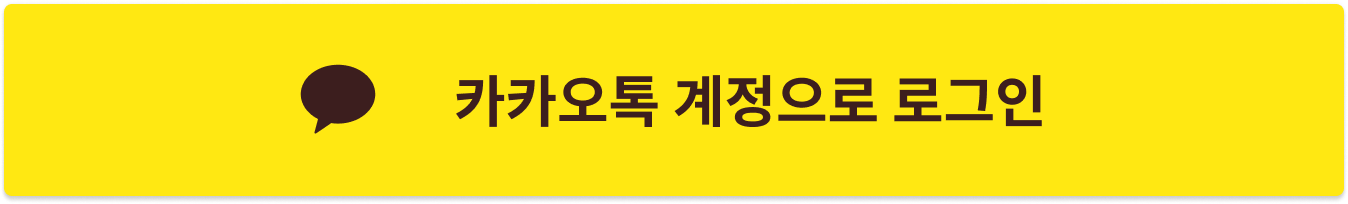
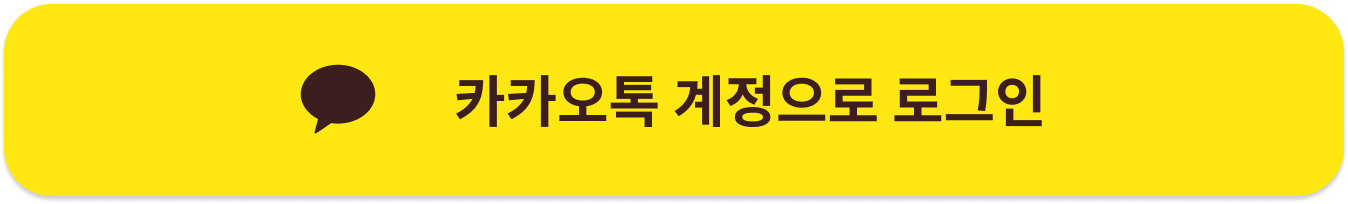
publish: 로그인 화면 디자인 변경

diff --git a/src/screens/SignIn/SignIn.tsx b/src/screens/SignIn/SignIn.tsx
@@ -1,10 +1,11 @@
 import React from 'react';
 import { Image, TouchableOpacity, useWindowDimensions } from 'react-native';
 import KakaoSignInBtn from '../../assets/images/KakaoSignInBtn.png';
-import Logo from '../../assets/images/Logo.png';
-import { View } from '../../components/Common';
+import TextLogo from '../../assets/images/TextLogo.png';
+import { Text, View } from '../../components/Common';
 import { COLORS } from '../../constants';
 import { useSignIn } from './useSignIn';
+import { INDIGO, WHITE } from '../../constants/Theme';
 
 export function SignIn() {
   const { width: WIDTH } = useWindowDimensions();
@@ -21,32 +22,43 @@ export function SignIn() {
       }}
     >
       <Image
-        source={Logo}
+        source={TextLogo}
         style={{
           resizeMode: 'contain',
-          width: 72,
-          height: 111,
+          width: '71.5%',
           top: '30%',
         }}
       />
-      <TouchableOpacity
+      <View
         style={{
-          width: WIDTH - 40,
-          height: 48,
           marginBottom: '14.7%',
         }}
-        onPress={signInWithKakao}
-        activeOpacity={0.8}
       >
-        <Image
-          source={KakaoSignInBtn}
+        <View style={{ width: WIDTH - 40 }}>
+          <Text color={WHITE} subtitle semibold style={{ marginBottom: 14 }}>
+            환영합니다
+          </Text>
+          <Text color={INDIGO[100]} body3 style={{ marginBottom: 23 }}>
+            로그인하여 Yeah Buddy를 이용해 보세요!
+          </Text>
+        </View>
+        <TouchableOpacity
           style={{
-            resizeMode: 'contain',
-            width: '100%',
-            height: '100%',
+            height: 48,
           }}
-        />
-      </TouchableOpacity>
+          onPress={signInWithKakao}
+          activeOpacity={0.8}
+        >
+          <Image
+            source={KakaoSignInBtn}
+            style={{
+              resizeMode: 'cover',
+              width: '100%',
+              height: '100%',
+            }}
+          />
+        </TouchableOpacity>
+      </View>
     </View>
   );
 }
